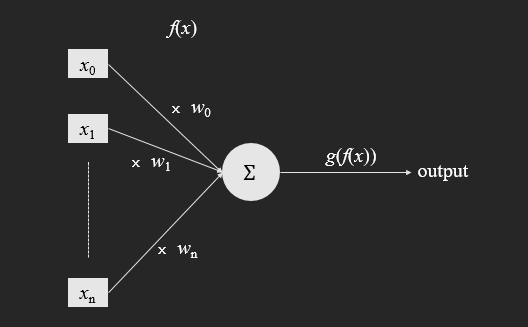
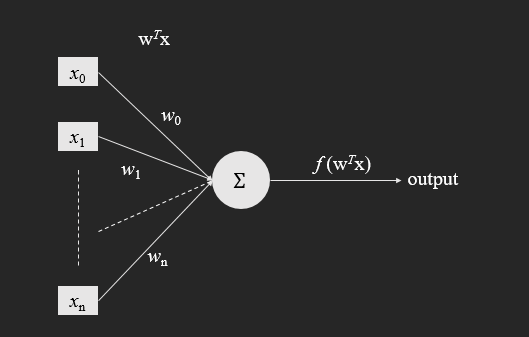
fix

diff --git a/_draft/2017-11-18-neural-networks-perceptron.md b/_draft/2017-11-18-neural-networks-perceptron.md
@@ -4,28 +4,114 @@ layout: default
 
 ## 神经网络：单层感知器
 
-感知器这个名称听起来就很诡异，再加一些教材并不想好好说话，就更加令人费解这一个概念。其实所谓的感知器就是一系列分类面，而单层感知器则不过是二维面上的一条直线，或者高维空间的超平面，它具有统一的形式
+感知器这个名称听起来就有点玄，再加一些教材并不想好好说话，就更加令人费解这一个概念。其实所谓的感知器就是一系列分类面，而单层感知器则不过是二维面上的一条直线，或者高维空间的超平面，它具有统一的形式
 
-\[
-f(x_1,x_2,...x_m) = \sum_{i = 1}^m w_i x_i + b
-\]
+$$
+\mathbf{w}^T \mathbf{x} + b = 0
+$$
 
-如果令 $x_0=1, \, w_0 = b$ ，那么就可以将上式写成更简单的形式
+其中 $\mathbf{w} = [w_1 \quad w_2 \quad ... w_m],  \quad\mathbf{x} = [x_1 \quad x_2 \quad ... x_m]$，由于 $\mathbf{w}$ 定义了超平面的法线方向，对其进行任意缩放不会改变方向，所以规定 $\|\mathbf{w}\| = 1$ 也是合理的，并有助于后续分析。
 
-\[
-f(\mathbf{x}) = \mathbf{w}^T \mathbf{x}
-\]
 
-其中 $\mathbf{w} = [w_1 \quad w_2 \quad ... w_m], \mathbf{x} = [x_1 \quad x_2 \quad ... x_m]$
+定义函数
 
-这个函数的作用是，将特征向量 $\mathbf{x}$ 映射到一个值上，然后再将这个值应用于激活函数得到最终的结果，整个过程如下图所示
+$$
+r(\mathbf{x}) = \mathbf{w}^T \mathbf{x} + b
+$$
 
-![](/resources/2017-11-18-neural-networks-perceptron/perceptron.png)
+这个函数的作用是，将特征向量 $\mathbf{x}$ 映射到一个值上，而这个值的大小正是点 $\mathbf{x}$ 到超平面 $\mathbf{w}^T \mathbf{x} + b = 0$ 的距离，其正负号则表明点位于超平面的哪一侧。
 
-激活函数，比如阶跃函数，在当 $f(x)$ 大于等于 0 的时候输出 1，否则输出 0，这就完成了分类。接下来我们的任务是根据训练数据来求解权重向量 $\mathbf{w}$，假设我们有训练样本集 $S = \{(\mathbf{x}^{(i)}, y_i)|\,\, i \in \{1,2,3,...n\}\}$。这里的 $y_i$ 是第 i 个样本的观察结果，具有值 0 或 1，表示正负样本。如果我们有一个完美的解决方案（即非常合适的 $g$ 与 $\mathbf{w}$），使得每一个样本特征都能映射到正确的类别，即
+假设有一个超平面能完美地将两类样本分割，设其方程为
 
-\[
-g^{-1}\left[\begin{matrix}
+$$
+\mathbf{w}^{* T} \mathbf{x} +b^* =0
+$$
+
+那么将所有特征点 $\{\mathbf x_i | i = 1,2,3,,,n\}$ 依次代入函数
+
+$$
+r(\mathbf{x}) = \mathbf{w}^{* T} \mathbf{x} +b^*
+$$
+
+将会得到一组距离 $\bar r_1, \bar r_2,\bar r_3,,,\bar r_n$。将这组值作为标定量，那么我们寻找分隔面的任务其实就是寻找 $\mathbf{w}, b$ ，使得将特征点代入距离函数之后能够得到标定距离的过程。而对于任意的参数 $\mathbf{w}, b$ ，我们可以定义总体误差函数
+
+$$
+e(\mathbf{w},b) = \frac 1 2 \sum_{i=1}^n (\mathbf{w}^T \mathbf{x}^{(i)} + b -\bar r_i)^2
+$$
+
+可以看到，如果 $\mathbf{w}, b$ 是趋近完美的（也就是能分开样本特征），那么上述误差也是趋近于 0 的。于是我们的问题就变成了求解最优化问题
+
+$$
+\min_{\mathbf{w},b} \quad e(\mathbf{w},b)
+$$
+
+这是一个无约束优化问题，使用梯度下降法的迭代格式为
+
+$$
+\mathbf w^{new} = \mathbf{w}^{old} - \eta \nabla_{\mathbf{w}} e
+$$
+
+其中
+
+$$
+\nabla_{\mathbf w}e =\frac 1 2 \sum_{i=1}^n 2(\mathbf{w}^T \mathbf x^{(i)} + b -\bar r_i) \mathbf{x}^{(i)} = \sum_{i=1}^n (r_i -\bar r_i)\mathbf x^{(i)}
+  $$
+
+于是就得到
+
+$$
+\mathbf w^{new} = \mathbf{w}^{old} - \eta\sum_{i=1}^n (r_i -\bar r_i)\mathbf x^{(i)}
+$$
+
+对于相当大的训练集，如果每次迭代都要计算所有样本，就会显得十分笨重，可以考虑把样本集进行分割，每次迭代仅使用少量样本，即可显著减少计算量。更极端的情况是，每次仅计算一个样本，便可得到如下的轻量级迭代格式
+
+$$
+\mathbf w^{new} = \mathbf{w}^{old} - \eta (r_i -\bar r_i)\mathbf x^{(i)} \quad i: from\quad  1\quad  to\quad m
+$$
+
+另一方面，$b$ 的更新方式，可以按 $\partial e /\partial b = 0$ 来得到。
+
+问题看似解决，但上述迭代实际上是不可行的，原因在于所谓的标定距离 $\bar r_i ,i = 1,2,3,,,n$ ，只是一个假设，我们并不能真正知道。但是，上面的分析给我们的启发是，如果知道标定输出和函数输出（分别对应于上面的 $\bar r_i, r_i$ ），那么我们可以利用它们之间的差异来进行参数的更新，而感知器正是如此。
+
+假设存在训练样本集 $S = \{(\mathbf{x}^{(i)}),\,\, y_i)\,|\, i \in \{1,2,,,n\}\}$，其中 $y_i$ 取值为 0 或 1 表示数据的类别，也是判别函数的预期输出或标定输出。
+
+为了方便叙述，下面先把超平面的方程修改一下，原来的方程为
+
+$$
+\mathbf{w}^T \mathbf{x} + b = 0
+$$
+
+如果定义 $w_0 = 1, x_0 = b$，并且修改 $\mathbf{w} = [w_0, w_1,,w_m],\, \mathbf{x}=[x_0,x_1,,x_m]$。于是得到新的形式
+
+$$
+\mathbf{w}^T \mathbf{x} = 0
+$$
+
+以及输出函数
+
+$$
+r(\mathbf{x}) = \mathbf{w}^T \mathbf{x}
+$$
+
+然后定义激活函数
+
+$$
+f(x) = \left\{\begin{aligned}
+& 0\quad x < 0\\
+
+&1 \quad x >= 0
+\end{aligned}
+  \right.
+$$
+
+判别过程是将激活函数应用于 $\mathbf{w}^T\mathbf{x}$ ， 使得大于等于 0 时，输出 1，否则输出 0。判别过程如下图所示
+
+![](../resources/2017-11-18-neural-networks-perceptron/perceptron.png)
+
+（这里跑一下题，假设我们有一个完美的解决方案（即非常合适的 $f$ 与 $\mathbf{w}$），使得每一个样本特征都能映射到正确的类别，即
+
+$$
+f^{-1}\left[\begin{matrix}
 y_1\\y_2\\...\\y_n
 \end{matrix}\right]=\mathbf{w}^T
 \left[\begin{matrix}
@@ -33,40 +119,36 @@ y_1\\y_2\\...\\y_n
 \mathbf{x}^{(2)}\\...\\
 \mathbf{x}^{(n)}
 \end{matrix}\right]
-\]
+$$
 
 然后再定义
 
-\[
+$$
 Y = [y_1\quad y_2... \quad y_n]^T\\
 X = [\mathbf{x}^{(1)T}\quad \mathbf{x}^{(2)T}... \quad \mathbf{x}^{(n)T}]^T
-\]
+$$
 
 于是可以得到方程
 
-\[
-g^{-1}Y = \mathbf{w}^T X
-\]
+$$
+f^{-1}Y = \mathbf{w}^T X
+$$
 
-这里的未知量只有 $\mathbf{w}$，于是从某种意义上，我们需要求解一个更具内涵的一元一次方程。当然这只是从形式上的类似，实际应用到的求解方法应该复杂得多。
+这里的未知量只有 $\mathbf{w}$，于是从某种意义上，相当于在求解一个更具内涵的一元一次方程。跑题完）
 
-为了求解权重向量 $\mathbf{w}$，我们可以考虑把问题的形式改变一下。假设有一个初始的解 $\mathbf{w}$，将其带入激活函数，得到一组分类结果 $\{\hat{y}_i|\,\,i\in\{1,2,,,n\}\}$，对于每个结果，其值可能会和观察值不一样，于是定义累计误差来衡量这种不确定性
+为了求解权重向量 $\mathbf{w}$，通过前面的启发我们可以得到 $\mathbf{w}$ 的迭代格式
 
-\[
-e = \sum_{i=1}^n (\mathbf{w}^T \mathbf{x}^{(i)} - y_i)^2
-\]
+$$
+\mathbf w^{new} = \mathbf{w} - \eta [f(\mathbf{w}^T \mathbf{x}^{(i)}) - y_i]\mathbf x^{(i)}
+$$
 
-显然 $e$ 是与 $\mathbf{w}$ 有关的函数。并且 $e$ 是越小越好，因为这意味着有更多的训练样本得到了正确的分类。于是求解 $\mathbf{w}$ 的问题就转化成了求解最优化问题
+可以发现，如果 $\mathbf{w}$ 能将特征 $\mathbf x^{(i)}$ 正确分类，即
 
-\[
-\min_{\mathbf{w}} \quad e
-\]
+$$
+y_i = f(\mathbf{w}^T x^{(i)})
+$$
 
-这是一个相当简单的无约束凸优化问题，可以使用梯度下降法来求解。
-
-
-
-
+则有 $\mathbf{w}^{new} = \mathbf{w}$。
 
 end
 

diff --git a/_posts/2017-11-28-fisher-linear-discriminant-analysis.md b/_posts/2017-11-28-fisher-linear-discriminant-analysis.md
@@ -4,7 +4,7 @@ layout: default
 
 ## Fisher 线性判别分析
 
-设有属于两个类别的 n 个 d 维样本 $$\{x_i| \, i \in \{1,2,,n\}\}$$，如果它们线性可分，那么一般可以将它们映射到一维空间，并且同样可识别，类似于下图所示的意思
+设有属于两个类别的 n 个 d 维样本 $$\{x_i\| \, i \in \{1,2,,n\}\}$$，如果它们线性可分，那么一般可以将它们映射到一维空间，并且同样可识别，类似于下图所示的意思
 
 ![](/resources/2017-11-28-fisher-linear-discriminant-analysis/projection.png)
 
@@ -250,13 +250,15 @@ $$
 
 $$
 p(x|y=0)\sim N(\mu_1, \sigma_1)\\
-p(x|y=1)\sim N(\mu_2, \sigma_2)\\
+p(x|y=1)\sim N(\mu_2, \sigma_2)
 $$
 
-预测的时候，将测试数据 $$\mathbf{x}$$ 代入公式 $$\mathbf{w}^{* T} \mathbf{x}$$ 得到降维数据 $$d$$，然后将 $$d$$ 分别代入上述的两类模型，比较结果大小即可进行判断。
+预测的时候，将测试数据 $$\mathbf{x}$$ 代入公式 $$\mathbf{w}^{* T} \mathbf{x}$$ 得到降维数据 $$d$$ ，然后将 $$d$$ 分别代入上述的两类模型，比较结果大小即可进行判断。
 
 
+#### 参考资料
 
+模式识别（第二版），边肇祺
 
 
 end
